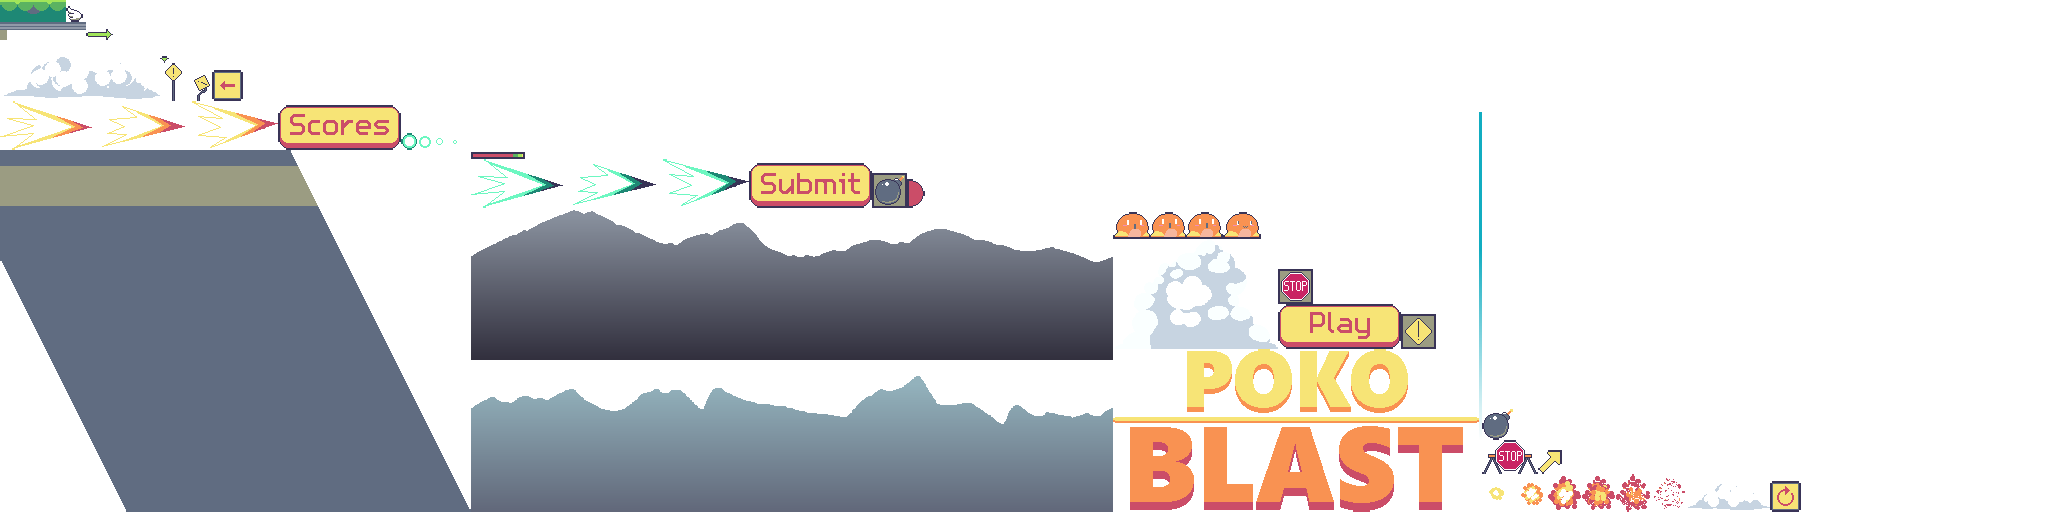
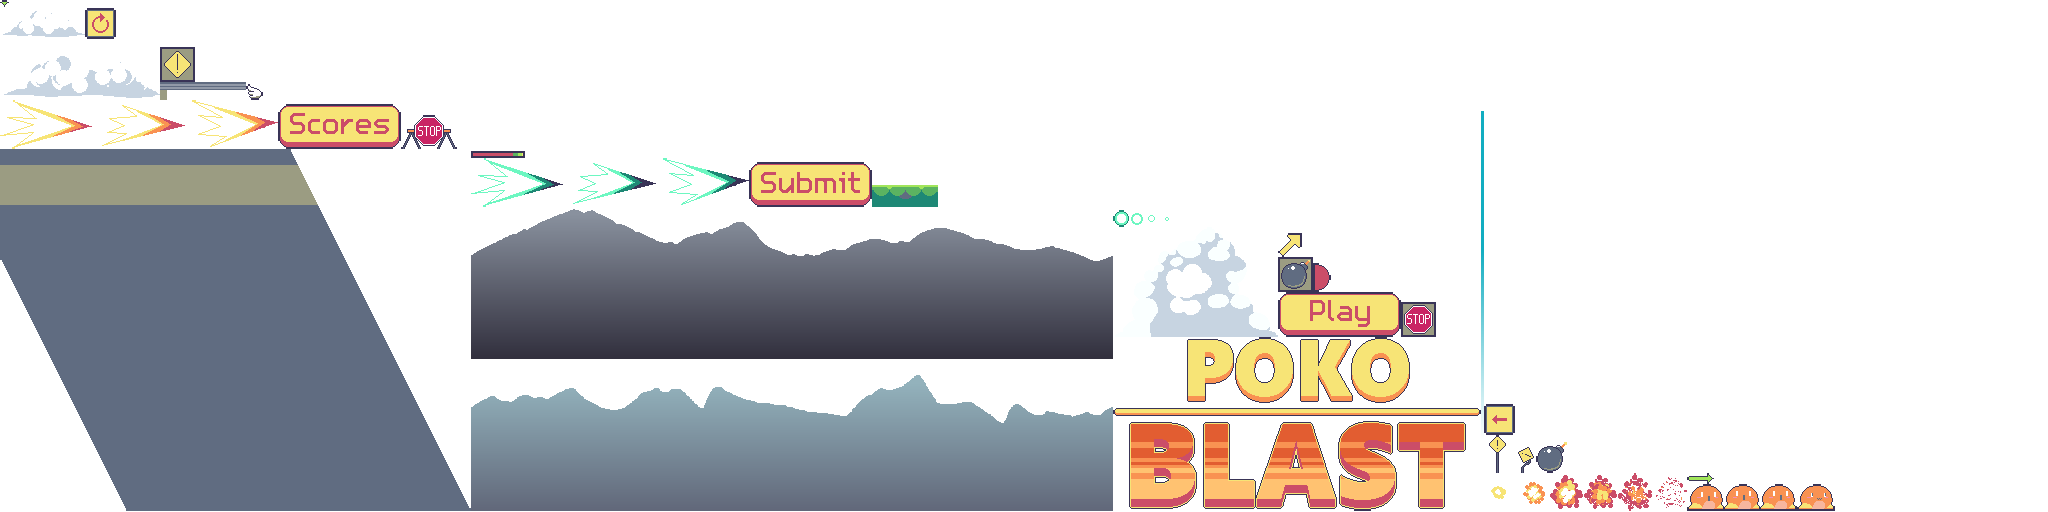
some polish

diff --git a/core/src/main/java/com/distraction/oss325/screens/PlayScreen.java b/core/src/main/java/com/distraction/oss325/screens/PlayScreen.java
@@ -12,6 +12,7 @@ import com.distraction.oss325.Utils;
 import com.distraction.oss325.entity.Background;
 import com.distraction.oss325.entity.Bomb;
 import com.distraction.oss325.entity.Button;
+import com.distraction.oss325.entity.DistanceBanner;
 import com.distraction.oss325.entity.FontEntity;
 import com.distraction.oss325.entity.Interactable;
 import com.distraction.oss325.entity.LaunchAngle;
@@ -75,6 +76,9 @@ public class PlayScreen extends Screen {
     private final Button scoresButton;
     private boolean loading;
     private float time;
+
+    private int currentDistance;
+    private final DistanceBanner distanceBanner;
 
     public PlayScreen(Context context) {
         super(context);
@@ -142,7 +146,9 @@ public class PlayScreen extends Screen {
         submittedFont = new FontEntity(context.getFont(Context.FONT_NAME_M5X716, 2f), "Submitted!", submitButton.x, submitButton.y - 4, FontEntity.Alignment.CENTER);
         scoresButton = new Button(context.getImage("scores"), Constants.WIDTH / 2f, Constants.HEIGHT / 4f - 50);
 
-        context.audio.playMusic("bg", 0.2f, true);
+        distanceBanner = new DistanceBanner(context, new FontEntity(context.getFont(Context.FONT_NAME_VCR20, 2f), "", Constants.WIDTH / 2f, Constants.HEIGHT / 2f + 40, FontEntity.Alignment.CENTER));
+
+//        context.audio.playMusic("bg", 0.2f, true);
     }
 
     private int getSpeed() {
@@ -203,17 +209,17 @@ public class PlayScreen extends Screen {
             } else {
                 temp.add(new Bomb(context));
             }
-            if (index / 13 > 80) {
+            if (index / 13 > 40) {
                 if (index % 5 == 0) {
                     temp.clear();
                     temp.add(new Stop(context));
                 }
-            } else if (index / 13 > 60) {
+            } else if (index / 13 > 30) {
                 if (index % 7 == 0) {
                     temp.clear();
                     temp.add(new Stop(context));
                 }
-            } else if (index / 13 > 30) {
+            } else if (index / 13 > 15) {
                 if (index % 10 == 0) {
                     temp.clear();
                     temp.add(new Stop(context));
@@ -352,9 +358,19 @@ public class PlayScreen extends Screen {
         out.update(dt);
 
         // update player
+        player.renderGlide = state == State.GO;
         if (state == State.GO || state == State.DONE) {
             player.update(dt);
         }
+        int newDistance = getDistance();
+        if (currentDistance != newDistance) {
+            if (newDistance % 1000 == 0) {
+                context.audio.playSound("1000", 0.3f);
+                distanceBanner.setText(getDistanceString());
+                distanceBanner.start();
+            }
+        }
+        currentDistance = newDistance;
 
         // update camera
         cam.position.x = player.x;
@@ -426,6 +442,8 @@ public class PlayScreen extends Screen {
             doneAlpha = MathUtils.clamp(doneAlpha + dt, 0, 0.8f);
         }
 
+        distanceBanner.update(dt);
+
     }
 
     @Override
@@ -491,15 +509,12 @@ public class PlayScreen extends Screen {
         for (int i = 0; i < boosterCount; i++) {
             sb.draw(booster, 10 + i * 25, Constants.HEIGHT - 90);
         }
-        sb.setColor(Constants.LIME);
-        sb.draw(pixel, 10, 230, 5, 30 * (player.glideTime / Player.MAX_GLIDE_TIME));
-        sb.setColor(Constants.BLACK);
-        sb.draw(pixel, 10, 230, 5, 1);
-        sb.draw(pixel, 10, 230, 1, 30);
-        sb.draw(pixel, 10, 260, 5, 1);
-        sb.draw(pixel, 15, 230, 1, 31);
         restartButton.render(sb);
         backButton.render(sb);
+
+        if (state == State.GO) {
+            distanceBanner.render(sb);
+        }
 
         if (state == State.DONE) {
             sb.setColor(0, 0, 0, doneAlpha);

diff --git a/core/src/main/java/com/distraction/oss325/entity/Player.java b/core/src/main/java/com/distraction/oss325/entity/Player.java
@@ -4,6 +4,7 @@ import com.badlogic.gdx.graphics.g2d.SpriteBatch;
 import com.badlogic.gdx.graphics.g2d.TextureRegion;
 import com.badlogic.gdx.math.MathUtils;
 import com.distraction.oss325.Animation;
+import com.distraction.oss325.Constants;
 import com.distraction.oss325.Context;
 import com.distraction.oss325.Utils;
 
@@ -13,6 +14,8 @@ public class Player extends Entity {
     public static final float MAX_GLIDE_TIME = 3f;
 
     private final Context context;
+
+    private final TextureRegion pixel;
 
     private final TextureRegion poko;
     private final Animation pokoShock;
@@ -33,9 +36,11 @@ public class Player extends Entity {
     public boolean up;
     public float glideTime = MAX_GLIDE_TIME;
     private final TextureRegion wing;
+    public boolean renderGlide;
 
     public Player(Context context) {
         this.context = context;
+        pixel = context.getPixel();
         poko = context.getImage("poko");
         w = poko.getRegionWidth();
         h = poko.getRegionHeight();
@@ -173,5 +178,12 @@ public class Player extends Entity {
         sb.setColor(1, 1, 1, 0.7f);
         if (dx > 3000) Utils.drawRotated(sb, bluedbz.getImage(), x, y, drad);
         else if (dx > 1500) Utils.drawRotated(sb, dbz.getImage(), x, y, drad);
+
+        if (renderGlide) {
+            sb.setColor(Constants.BLACK);
+            sb.draw(pixel, x - 16, y + 24, 32, 6);
+            sb.setColor(Constants.LIME);
+            sb.draw(pixel, x - 15, y + 25, 30 * (glideTime / Player.MAX_GLIDE_TIME), 4);
+        }
     }
 }

diff --git a/core/src/main/java/com/distraction/oss325/entity/DistanceBanner.java b/core/src/main/java/com/distraction/oss325/entity/DistanceBanner.java
@@ -1,0 +1,43 @@
+package com.distraction.oss325.entity;
+
+import com.badlogic.gdx.graphics.g2d.SpriteBatch;
+import com.badlogic.gdx.graphics.g2d.TextureRegion;
+import com.distraction.oss325.Constants;
+import com.distraction.oss325.Context;
+
+public class DistanceBanner extends Entity {
+
+    private final TextureRegion pixel;
+
+    private final FontEntity fontEntity;
+
+    private float time;
+
+    public DistanceBanner(Context context, FontEntity fontEntity) {
+        pixel = context.getPixel();
+        this.fontEntity = fontEntity;
+    }
+
+    public void start() {
+        time = 0;
+    }
+
+    public void setText(String text) {
+        fontEntity.setText(text);
+    }
+
+    @Override
+    public void update(float dt) {
+        time += dt;
+    }
+
+    @Override
+    public void render(SpriteBatch sb) {
+        if (time < 1f) {
+            sb.setColor(0, 0, 0, 0.5f);
+            sb.draw(pixel, 0, fontEntity.y - 10, Constants.WIDTH, 30);
+            sb.setColor(1, 1, 1, 1);
+            fontEntity.render(sb);
+        }
+    }
+}

diff --git a/core/src/main/java/com/distraction/oss325/screens/TitleScreen.java b/core/src/main/java/com/distraction/oss325/screens/TitleScreen.java
@@ -86,13 +86,13 @@ public class TitleScreen extends Screen {
         sb.begin();
 
         sb.setProjectionMatrix(cam.combined);
-        sb.setColor(Constants.BLACK);
+        sb.setColor(Constants.GRAY);
         sb.draw(pixel, 0, 0, Constants.WIDTH, Constants.HEIGHT);
         sb.setColor(Constants.WHITE);
         sb.draw(pixel, 0, 130, Constants.WIDTH, 100);
 
         sb.setColor(1, 1, 1, 1);
-        Utils.drawCentered(sb, title, Constants.WIDTH / 2f, Constants.HEIGHT / 2f);
+        Utils.drawCentered(sb, title, Constants.WIDTH / 2f, Constants.HEIGHT / 2f + 20);
 
         playerFont.render(sb);
         versionFont.render(sb);

diff --git a/core/src/main/java/com/distraction/oss325/audio/AudioHandler.java b/core/src/main/java/com/distraction/oss325/audio/AudioHandler.java
@@ -26,7 +26,7 @@ public class AudioHandler {
         addSound("bomb", "sfx/FreeSFX/Retro Explosion Swooshes 04.wav");
         addSound("metal", "sfx/metal-pole-hit-83057.wav");
         addSound("stop", "sfx/FreeSFX/Retro Event StereoUP 02.wav");
-        addSound("addboost", "sfx/FreeSFX/Retro Impact Metal 05.wav");
+        addSound("1000", "sfx/FreeSFX/Retro Impact Metal 05.wav");
         addSound("submit", "sfx/FreeSFX/Retro Event UI 13.wav");
         addSound("pluck", "sfx/click.ogg");
     }

diff --git a/README.md b/README.md
@@ -11,8 +11,3 @@ Gamejolt library: https://github.com/MrStahlfelge/gdx-gamesvcs
 FreeSFX: https://kronbits.itch.io/freesfx
 
 https://pixabay.com/sound-effects/metal-pole-hit-83057/
-
-TODO LOOK AT
-technoplanet
-jakazid
-https://www.youtube.com/watch?v=uIQey9U75Qc&list=PLlOeUD1DfOfFNMz4ayQEjF7QLd_w1BSpv&index=25
